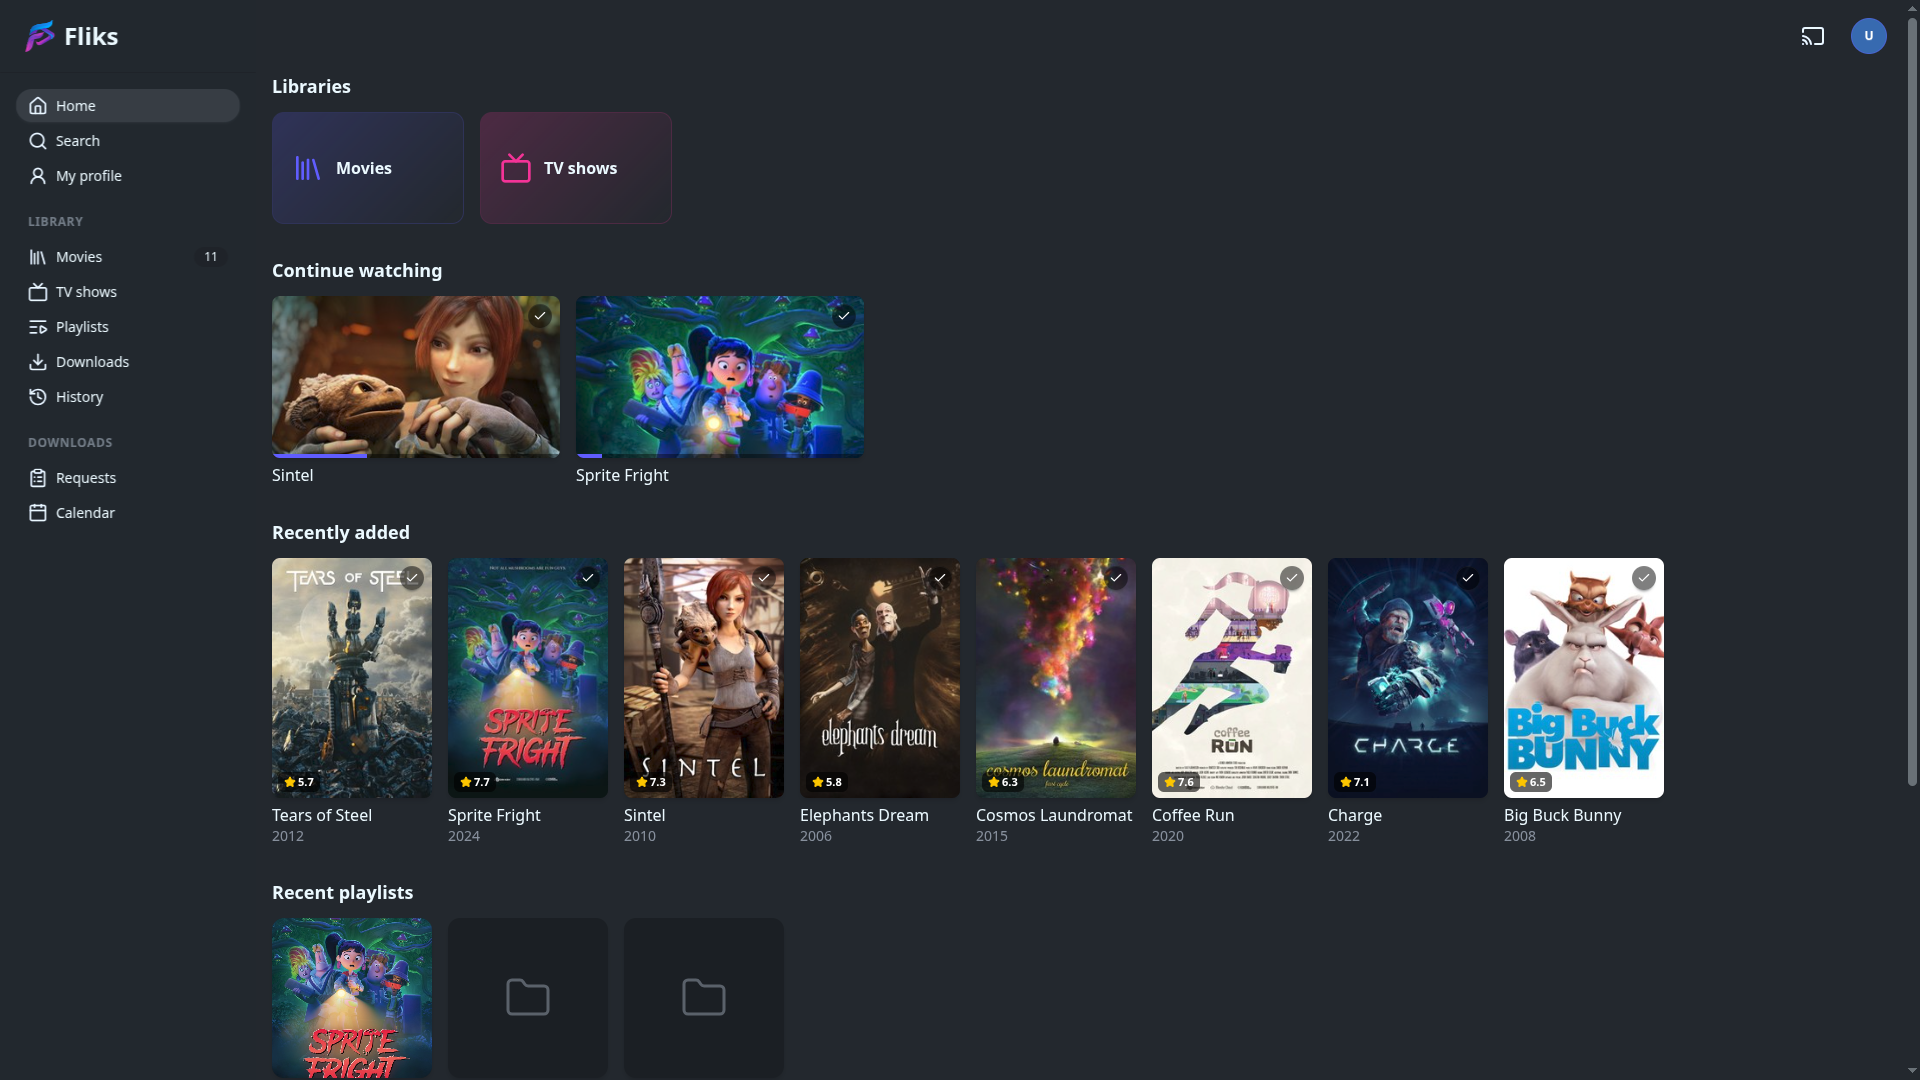
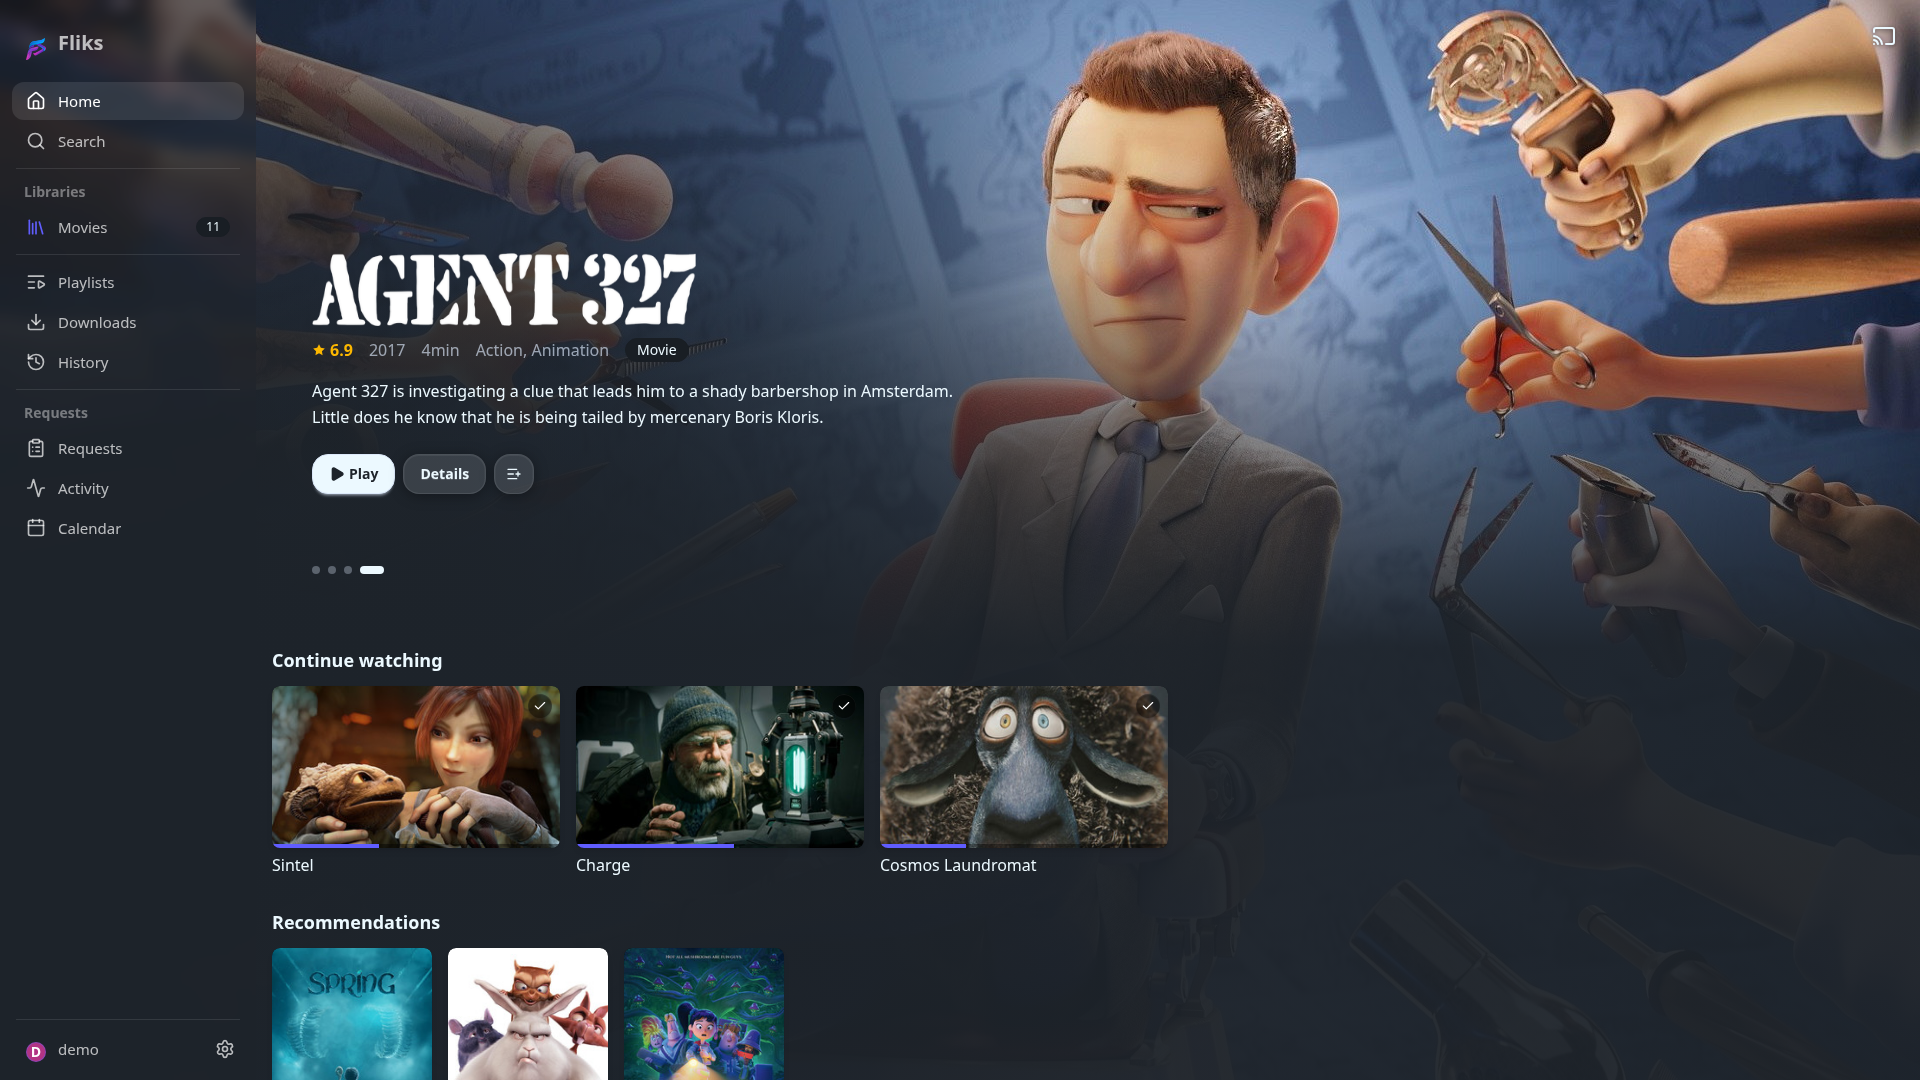
docs(readme): replace the screenshot deck with a device collage (#3076)
* docs(readme): refresh screenshots on a fresh demo library

* docs(readme): replace the screenshot deck with a device collage

The tilted deck shrank every window until its text was unreadable at the README width. The
collage shows the home page on desktop and phone and a film page on a tablet, all flat, rendered
at 2x. The previous deck is kept as collage-deck.webp.

diff --git a/README.md b/README.md
@@ -29,7 +29,7 @@ create, no subscription, and nothing leaves the house.
 
 <p align="center">
   <img src=".github/readme/collage.webp" width="70%"
-       alt="The home page, a library, discovery and a film page">
+       alt="The home page on desktop and phone, a film page on a tablet">
 </p>
 
 ---
